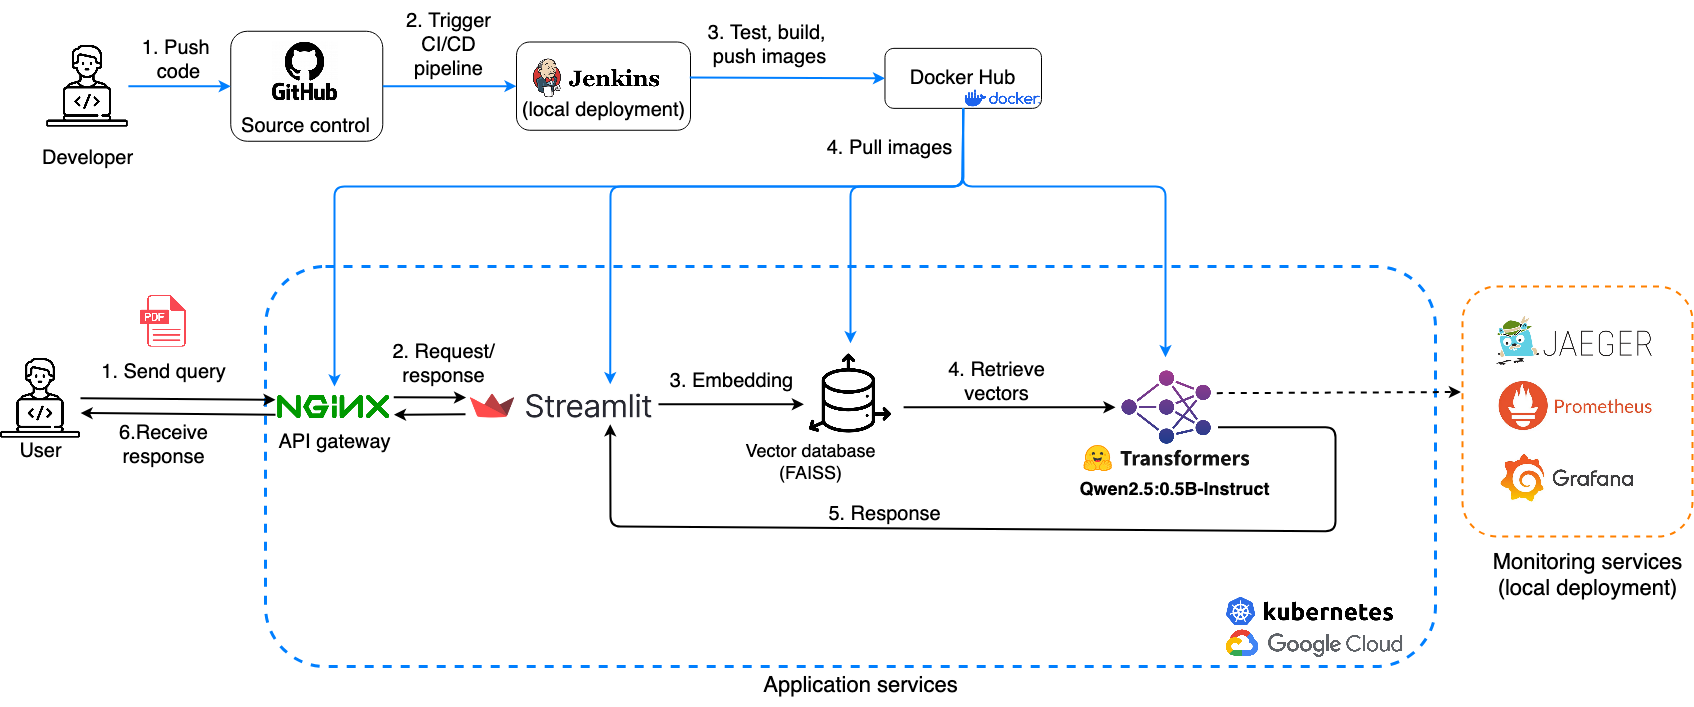
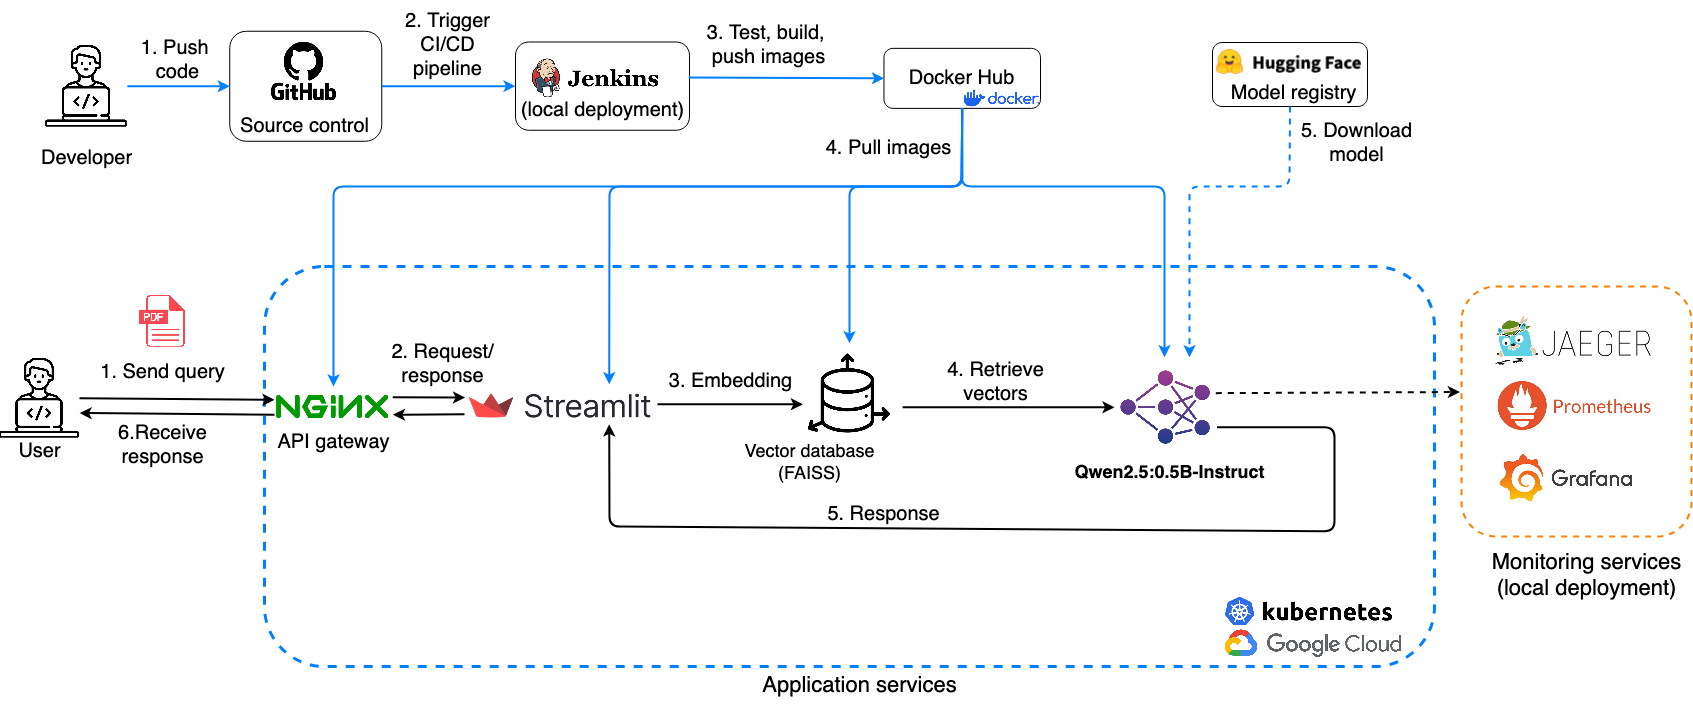
chore: update README and rename directory

diff --git a/README.md b/README.md
@@ -7,11 +7,10 @@ A **FastAPI + Streamlit** based **Retrieval-Augmented Generation (RAG) chatbot**
 **Disclaimer**: The `tiny-llm-agent` is provided for the demonstration purpose. It is implemented to run on CPU to ensure compatibility with most hardware devices. Additionally, the response length is limited to a fixed number of tokens because the small LLM cannot efficiently handle very long contexts. Expanding beyond these limitations can be achieved by using a larger model (e.g., Qwen2.5-7B) and enabling GPU processing for faster responses. See [rag-pipeline/notebooks/poc-rag-code.ipynb](rag-pipeline/notebooks/poc-rag-code.ipynb), [rag-pipeline/src/main.py](rag-pipeline/src/main.py), and [rag-pipeline/Dockerfile](rag-pipeline/Dockerfile) for detailed implementation and configuration.
 
 **Architecture** of the platform is as follows:   
-<img src="assets/architecture.png" alt="architecture" width="1000"/>  
+<img src="assets/architecture.png" alt="architecture" width="1024"/>  
 
 The MLOps system illustrated in the image operates through two distinct pipelines:  
-- **For developers**, the workflow begins with pushing code to a source control system (step 1), triggering a CI/CD pipeline (steps 2). The CI/CD pipeline builds, tests, and deploys containers locally. After that, it pushes Docker images to Docker Hub registry (step 3). 
-These images are then pulled and managed in a Kubernetes cluster on Google Cloud, making the application accessible via a Streamlit UI.  
+- **For developers**, the workflow begins with pushing code to a source control system (step 1), triggering a CI/CD pipeline (steps 2). The CI/CD pipeline builds, tests, and deploys containers locally. After that, it pushes Docker images to Docker Hub registry (step 3). These images are then pulled in a Kubernetes cluster on Google Cloud (step 4). Once the services start, the LLM will be downloaded from HuggingFace model registry and stored in the cluster (step 5).  
 - **For users**, interactions start with a query from user (step 1), which routes requests through an API gateway (steps 2). The system generates embeddings (step 3), retrieves relevant vectors from the FAISS database (step 4), and returns a response (step 5). The API gateway finally forward the response and display it via Streamlit UI. 
 
 **Mornitoring services** are managed by developers using `Jaeger`, `Prometheus`, and `Grafana`, ensuring observability for users.
@@ -52,6 +51,8 @@ tiny-llm-agent/
 │ ├─── main.py                # Streamlit UI logic  
 │ ├─── requirements.txt       # Frontend dependencies  
 │ ├─── Dockerfile             # Frontend Docker configuration  
+│  
+├─ nginx/                     # API gateway configuration
 │
 ├─ grafana/                   # Monitoring service (Grafana)  
 │
@@ -162,6 +163,6 @@ Details on building CI/CD pipeline with Jenkins can be found in [jenkins](jenkin
 ## 4. Google Cloud Deployment
 - Details about deploying all services on a Google Cloud Platform (GCP) can be found in the [kubernetes](kubernetes/README.md) directory.  
 
-- For a quick demo of the `tiny-llm-agent` chatbot on GCP, see video recap below. For the full video demo, check this [YouTube](https://www.youtube.com/watch?v=v5vP3bfA6qU) link.  
+- For a quick demo of the `tiny-llm-agent` chatbot on GCP, see video recap below. For the full video demo, check this [YouTube](https://www.youtube.com/watch?v=MBjAibP9fs8) link.  
 
 ![](assets/gcp-demo.gif)

diff --git a/kubernetes/README.md b/kubernetes/README.md
@@ -41,7 +41,7 @@ docker login
 ```
 
 - Step 2: Create a repository on Docker Hub
-Go to [https://hub.docker.com/](https://hub.docker.com/), log in, and manually create a repository, e.g., Namespace `model-serving` and repositories name`tiny-llm-agent-rag-pipeline` and `tiny-llm-agent-streamlit`.
+Go to [https://hub.docker.com/](https://hub.docker.com/), log in, and manually create a repository, e.g., Namespace `model-serving` and repositories name`tiny-llm-agent-rag-pipeline`,  `tiny-llm-agent-streamlit`, and `tiny-llm-agent-nginx`.  
 
 - Step 3: Build and push Docker images to Docker Hub.
 Assuming we are at `tiny-llm-agent/` root directory, to build and push images to Docker Hub:  
@@ -59,7 +59,7 @@ docker buildx build --platform linux/amd64,linux/arm64 -t hieunq95/tiny-llm-agen
 cd nginx  
 docker buildx build --platform linux/amd64,linux/arm64 -t hieunq95/tiny-llm-agent-nginx:v0.1.4 --push .
 ```
- - The above steps just build and push images of the backend (rag-pipeline), frontend (streamlit), and proxy (nginx) to Docker Hub. The `--platform` parameter is to support multi-platform build in Docker `buildx`. This will take time, depends on the network connection. 
+ - The above steps just build and push images of the backend (rag-pipeline), frontend (streamlit), and proxy (nginx) to Docker Hub. The `--platform` parameter is for supporting multi-platform build in Docker `buildx`. This will take time, depends on the network connection. 
 ---
 
 ## 2. Local Deployment with Minikube
@@ -287,11 +287,11 @@ The output shows something like this:
 NAME           TYPE           CLUSTER-IP       EXTERNAL-IP     PORT(S)          AGE
 rag-pipeline   LoadBalancer   34.118.228.91    34.132.15.181   8000:30082/TCP   55s
 streamlit      LoadBalancer   34.118.239.245   34.58.203.53    8501:30080/TCP   55s  
-nginx          LoadBalancer   34.118.239.247   34.58.203.54    8080:30081/TCP   55s
+nginx          LoadBalancer   34.118.239.247   34.123.188.143  80:30081/TCP     55s
 ```  
 Access to the services using the external IP address:
 - Frontend: `34.58.203.53:8501`  
 - Backend (FastAPI): `34.132.15.181:8000/docs`
-- API gateway (NGINX): `34.58.203.54:8080`  
+- API gateway (NGINX): `34.123.188.14:80`  
 
 ---
